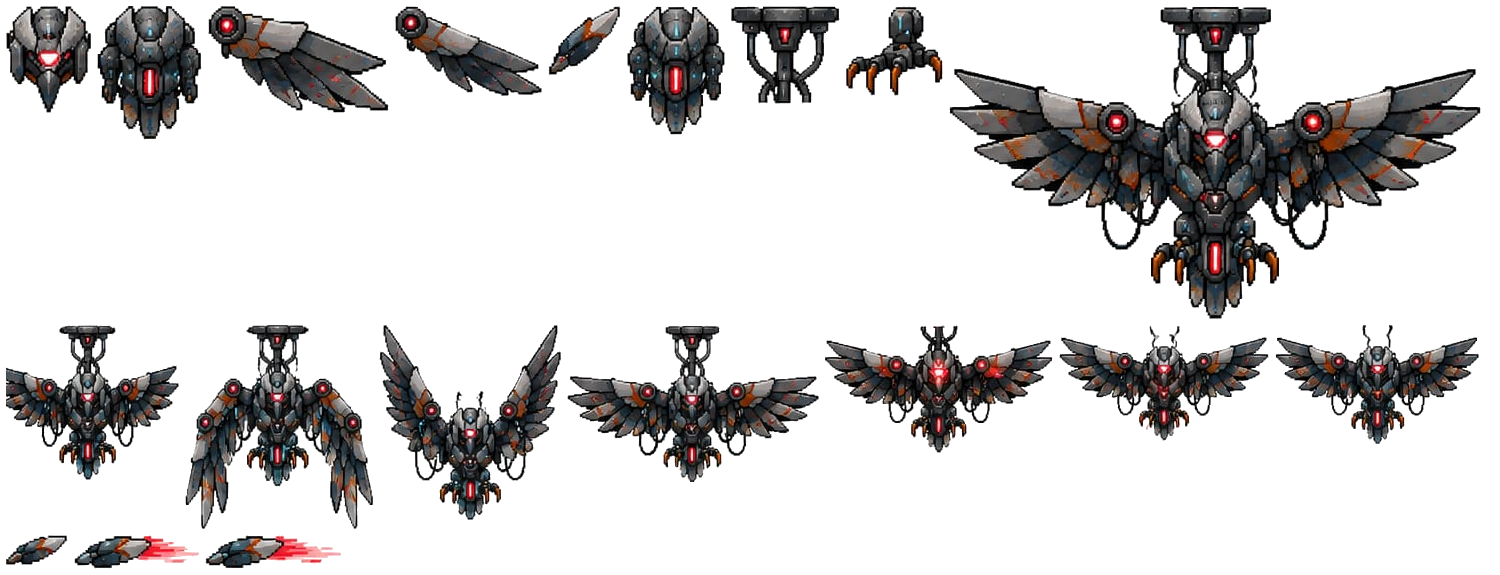
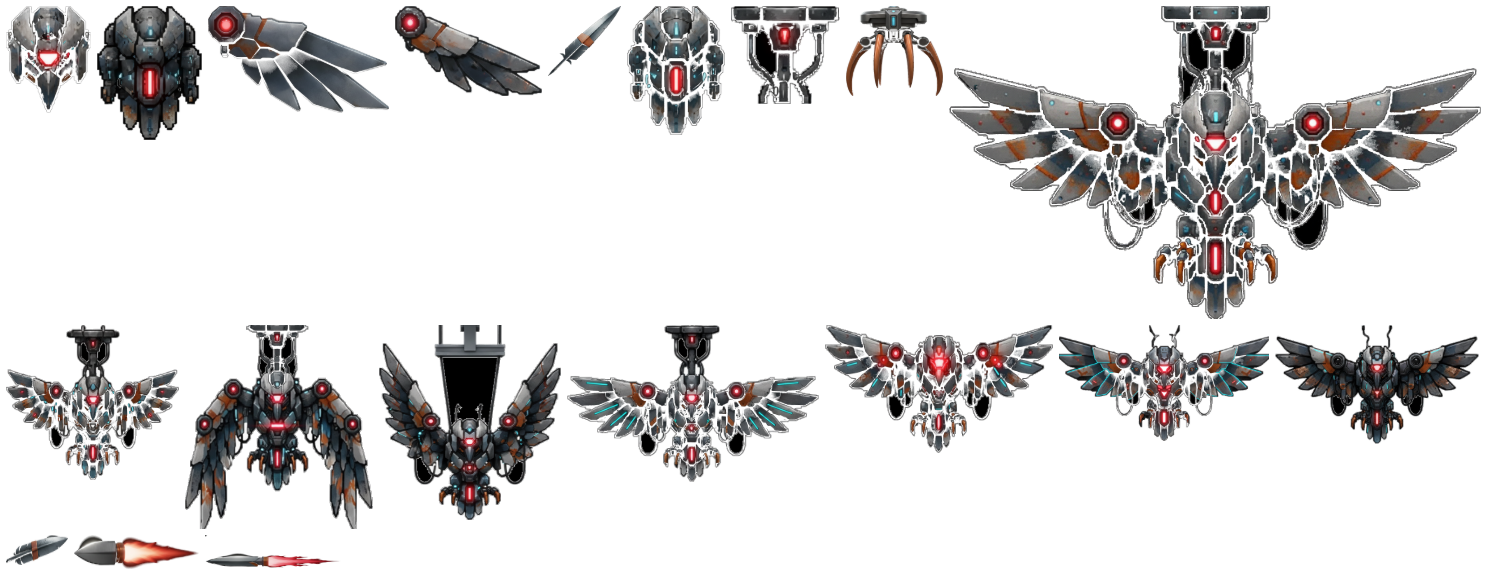
four guardians restyled from drawings into 3D renders, rigs untouched
TALONHOST, FURNACE CHOIR, GLACIERE and MOTHER-V now read as lit dimensional
objects rather than painted sprites — physically-based metal, real subsurface
in the dragon's molten seams and the unicorn's ice, genuinely emissive cores,
ambient occlusion in every joint. Sixty parts through tools/bossparts.cjs,
which restyles each limb ALONE and pastes it back into the same rect, so not
one pivot moved. Verified in the running build: each boss was woken in its own
room and photographed assembled.

Three things the pipeline learned doing it.

DERIVED RECTS ARE NOT PARTS. Some entries in these tables read the same pixels
a second time — glaciere's `mane` is a window into `hero`, eagle's `pRest` is
the bottom of `pIdle`. Restyling one independently pastes a second mane over
the mane. They are still verified as rig numbers, but excluded from extract and
ignored on rebuild; they inherit their parent's restyle for free.

ON A RIG, ALIGNMENT BEATS FIDELITY. Letterboxing a restyled part inside its
rect preserves the model's aspect and is right for a standalone picture — but a
leg that lands 6% short leaves a 6% gap at the hip. These parts are meant to be
the SAME shape, so aspect difference is drift, not intent: it is stretched out
and the joint lands exactly where the rig expects it. Past 18% that stops being
a correction, so the part is letterboxed and the drift reported.

A FREE-FLOATING PROP HAS NO JOINT TO MISALIGN. A thrown feather, an ice shard,
[…]

Changed region(s): [[0.0, 0.0, 1.0, 0.5617], [0.0, 0.5617, 0.9813, 0.9165], [0.0, 0.9165, 0.2453, 1.0]]

diff --git a/index.html b/index.html
@@ -225,7 +225,7 @@
 })();
 </script>
 
-<script>window.BUILD_ID="msrf2j8m";window.GAME_LOCK="robo";window.MUS_FILES={"ambient_observing_the_star":"assets/music/ambient_observing_the_star.ogg","epic_combat":"assets/music/epic_combat.ogg","mus_archives":"assets/music/mus_archives.m4a","mus_boss":"assets/music/mus_boss.m4a","mus_cache":"assets/music/mus_cache.m4a","mus_conduits":"assets/music/mus_conduits.m4a","mus_ending":"assets/music/mus_ending.m4a","mus_foundry":"assets/music/mus_foundry.m4a","mus_furnace":"assets/music/mus_furnace.m4a","mus_glaciere":"assets/music/mus_glaciere.m4a","mus_intro":"assets/music/mus_intro.m4a","mus_meadows":"assets/music/mus_meadows.m4a","mus_mother":"assets/music/mus_mother.m4a","mus_nest":"assets/music/mus_nest.m4a","mus_nullfang":"assets/music/mus_nullfang.m4a","mus_prism":"assets/music/mus_prism.m4a","mus_talonhost":"assets/music/mus_talonhost.m4a","mus_title":"assets/music/mus_title.m4a"};window.VID_FILES={"end_atlas":"assets/video/end_atlas.mp4","end_brood":"assets/video/end_brood.mp4","end_close":"assets/video/end_close.mp4","end_folk":"assets/video/end_folk.mp4","end_glitch":"assets/video/end_glitch.mp4","end_mother":"assets/video/end_mother.mp4","end_open":"assets/video/end_open.mp4","end_prism":"assets/video/end_prism.mp4","end_zero":"assets/video/end_zero.mp4","intro1":"assets/video/intro1.mp4","intro2":"assets/video/intro2.mp4","intro3":"assets/video/intro3.mp4","intro4":"assets/video/intro4.mp4","intro5":"assets/video/intro5.mp4","intro6":"assets/video/intro6.mp4","intro7":"assets/video/intro7.mp4","intro8":"assets/video/intro8.mp4","purify_atlas":"assets/video/purify_atlas.mp4","purify_brood":"assets/video/purify_brood.mp4","purify_glitch":"assets/video/purify_glitch.mp4","purify_prism":"assets/video/purify_prism.mp4","purify_zero":"assets/video/purify_zero.mp4"};window.VID_ALT={"end_atlas":"assets/video/end_atlas.webm","end_brood":"assets/video/end_brood.webm","end_close":"assets/video/end_close.webm","end_folk":"assets/video/end_folk.webm","end_glitch":"assets/video/end_glitch.webm","end_mother":"assets/video/end_mother.webm","end_open":"assets/video/end_open.webm","end_prism":"assets/video/end_prism.webm","end_zero":"assets/video/end_zero.webm","intro1":"assets/video/intro1.webm","intro2":"assets/video/intro2.webm","intro3":"assets/video/intro3.webm","intro4":"assets/video/intro4.webm","intro5":"assets/video/intro5.webm","intro6":"assets/video/intro6.webm","intro7":"assets/video/intro7.webm","intro8":"assets/video/intro8.webm","purify_atlas":"assets/video/purify_atlas.webm","purify_brood":"assets/video/purify_brood.webm","purify_glitch":"assets/video/purify_glitch.webm","purify_prism":"assets/video/purify_prism.webm","purify_zero":"assets/video/purify_zero.webm"};window.VOX_FILES={"lumen0":"assets/vox/lumen0.ogg","lumen1":"assets/vox/lumen1.ogg","lumen2":"assets/vox/lumen2.ogg","mono0":"assets/vox/mono0.ogg","mono1":"assets/vox/mono1.ogg","mono2":"assets/vox/mono2.ogg","patch0":"assets/vox/patch0.ogg","patch1":"assets/vox/patch1.ogg","patch2":"assets/vox/patch2.ogg","ratchet0":"assets/vox/ratchet0.ogg","ratchet1":"assets/vox/ratchet1.ogg","sage0":"assets/vox/sage0.ogg","sage1":"assets/vox/sage1.ogg","sage2":"assets/vox/sage2.ogg","servo0":"assets/vox/servo0.ogg","servo1":"assets/vox/servo1.ogg","servo2":"assets/vox/servo2.ogg","servo3":"assets/vox/servo3.ogg"}</script>
+<script>window.BUILD_ID="msrh5au7";window.GAME_LOCK="robo";window.MUS_FILES={"ambient_observing_the_star":"assets/music/ambient_observing_the_star.ogg","epic_combat":"assets/music/epic_combat.ogg","mus_archives":"assets/music/mus_archives.m4a","mus_boss":"assets/music/mus_boss.m4a","mus_cache":"assets/music/mus_cache.m4a","mus_conduits":"assets/music/mus_conduits.m4a","mus_ending":"assets/music/mus_ending.m4a","mus_foundry":"assets/music/mus_foundry.m4a","mus_furnace":"assets/music/mus_furnace.m4a","mus_glaciere":"assets/music/mus_glaciere.m4a","mus_intro":"assets/music/mus_intro.m4a","mus_meadows":"assets/music/mus_meadows.m4a","mus_mother":"assets/music/mus_mother.m4a","mus_nest":"assets/music/mus_nest.m4a","mus_nullfang":"assets/music/mus_nullfang.m4a","mus_prism":"assets/music/mus_prism.m4a","mus_talonhost":"assets/music/mus_talonhost.m4a","mus_title":"assets/music/mus_title.m4a"};window.VID_FILES={"end_atlas":"assets/video/end_atlas.mp4","end_brood":"assets/video/end_brood.mp4","end_close":"assets/video/end_close.mp4","end_folk":"assets/video/end_folk.mp4","end_glitch":"assets/video/end_glitch.mp4","end_mother":"assets/video/end_mother.mp4","end_open":"assets/video/end_open.mp4","end_prism":"assets/video/end_prism.mp4","end_zero":"assets/video/end_zero.mp4","intro1":"assets/video/intro1.mp4","intro2":"assets/video/intro2.mp4","intro3":"assets/video/intro3.mp4","intro4":"assets/video/intro4.mp4","intro5":"assets/video/intro5.mp4","intro6":"assets/video/intro6.mp4","intro7":"assets/video/intro7.mp4","intro8":"assets/video/intro8.mp4","purify_atlas":"assets/video/purify_atlas.mp4","purify_brood":"assets/video/purify_brood.mp4","purify_glitch":"assets/video/purify_glitch.mp4","purify_prism":"assets/video/purify_prism.mp4","purify_zero":"assets/video/purify_zero.mp4"};window.VID_ALT={"end_atlas":"assets/video/end_atlas.webm","end_brood":"assets/video/end_brood.webm","end_close":"assets/video/end_close.webm","end_folk":"assets/video/end_folk.webm","end_glitch":"assets/video/end_glitch.webm","end_mother":"assets/video/end_mother.webm","end_open":"assets/video/end_open.webm","end_prism":"assets/video/end_prism.webm","end_zero":"assets/video/end_zero.webm","intro1":"assets/video/intro1.webm","intro2":"assets/video/intro2.webm","intro3":"assets/video/intro3.webm","intro4":"assets/video/intro4.webm","intro5":"assets/video/intro5.webm","intro6":"assets/video/intro6.webm","intro7":"assets/video/intro7.webm","intro8":"assets/video/intro8.webm","purify_atlas":"assets/video/purify_atlas.webm","purify_brood":"assets/video/purify_brood.webm","purify_glitch":"assets/video/purify_glitch.webm","purify_prism":"assets/video/purify_prism.webm","purify_zero":"assets/video/purify_zero.webm"};window.VOX_FILES={"lumen0":"assets/vox/lumen0.ogg","lumen1":"assets/vox/lumen1.ogg","lumen2":"assets/vox/lumen2.ogg","mono0":"assets/vox/mono0.ogg","mono1":"assets/vox/mono1.ogg","mono2":"assets/vox/mono2.ogg","patch0":"assets/vox/patch0.ogg","patch1":"assets/vox/patch1.ogg","patch2":"assets/vox/patch2.ogg","ratchet0":"assets/vox/ratchet0.ogg","ratchet1":"assets/vox/ratchet1.ogg","sage0":"assets/vox/sage0.ogg","sage1":"assets/vox/sage1.ogg","sage2":"assets/vox/sage2.ogg","servo0":"assets/vox/servo0.ogg","servo1":"assets/vox/servo1.ogg","servo2":"assets/vox/servo2.ogg","servo3":"assets/vox/servo3.ogg"}</script>
 <script>
 // THE FIRST BOSS — virus-infected robot beast, and its whelps.
 //

diff --git a/odyssey.html b/odyssey.html
@@ -225,7 +225,7 @@
 })();
 </script>
 
-<script>window.BUILD_ID="msrf2j8m";window.GAME_LOCK="hero";window.MUS_FILES={"ambient_observing_the_star":"assets/music/ambient_observing_the_star.ogg","epic_combat":"assets/music/epic_combat.ogg","mus_archives":"assets/music/mus_archives.m4a","mus_boss":"assets/music/mus_boss.m4a","mus_cache":"assets/music/mus_cache.m4a","mus_conduits":"assets/music/mus_conduits.m4a","mus_ending":"assets/music/mus_ending.m4a","mus_foundry":"assets/music/mus_foundry.m4a","mus_furnace":"assets/music/mus_furnace.m4a","mus_glaciere":"assets/music/mus_glaciere.m4a","mus_intro":"assets/music/mus_intro.m4a","mus_meadows":"assets/music/mus_meadows.m4a","mus_mother":"assets/music/mus_mother.m4a","mus_nest":"assets/music/mus_nest.m4a","mus_nullfang":"assets/music/mus_nullfang.m4a","mus_prism":"assets/music/mus_prism.m4a","mus_talonhost":"assets/music/mus_talonhost.m4a","mus_title":"assets/music/mus_title.m4a"};window.VID_FILES={"end_atlas":"assets/video/end_atlas.mp4","end_brood":"assets/video/end_brood.mp4","end_close":"assets/video/end_close.mp4","end_folk":"assets/video/end_folk.mp4","end_glitch":"assets/video/end_glitch.mp4","end_mother":"assets/video/end_mother.mp4","end_open":"assets/video/end_open.mp4","end_prism":"assets/video/end_prism.mp4","end_zero":"assets/video/end_zero.mp4","intro1":"assets/video/intro1.mp4","intro2":"assets/video/intro2.mp4","intro3":"assets/video/intro3.mp4","intro4":"assets/video/intro4.mp4","intro5":"assets/video/intro5.mp4","intro6":"assets/video/intro6.mp4","intro7":"assets/video/intro7.mp4","intro8":"assets/video/intro8.mp4","purify_atlas":"assets/video/purify_atlas.mp4","purify_brood":"assets/video/purify_brood.mp4","purify_glitch":"assets/video/purify_glitch.mp4","purify_prism":"assets/video/purify_prism.mp4","purify_zero":"assets/video/purify_zero.mp4"};window.VID_ALT={"end_atlas":"assets/video/end_atlas.webm","end_brood":"assets/video/end_brood.webm","end_close":"assets/video/end_close.webm","end_folk":"assets/video/end_folk.webm","end_glitch":"assets/video/end_glitch.webm","end_mother":"assets/video/end_mother.webm","end_open":"assets/video/end_open.webm","end_prism":"assets/video/end_prism.webm","end_zero":"assets/video/end_zero.webm","intro1":"assets/video/intro1.webm","intro2":"assets/video/intro2.webm","intro3":"assets/video/intro3.webm","intro4":"assets/video/intro4.webm","intro5":"assets/video/intro5.webm","intro6":"assets/video/intro6.webm","intro7":"assets/video/intro7.webm","intro8":"assets/video/intro8.webm","purify_atlas":"assets/video/purify_atlas.webm","purify_brood":"assets/video/purify_brood.webm","purify_glitch":"assets/video/purify_glitch.webm","purify_prism":"assets/video/purify_prism.webm","purify_zero":"assets/video/purify_zero.webm"};window.VOX_FILES={"lumen0":"assets/vox/lumen0.ogg","lumen1":"assets/vox/lumen1.ogg","lumen2":"assets/vox/lumen2.ogg","mono0":"assets/vox/mono0.ogg","mono1":"assets/vox/mono1.ogg","mono2":"assets/vox/mono2.ogg","patch0":"assets/vox/patch0.ogg","patch1":"assets/vox/patch1.ogg","patch2":"assets/vox/patch2.ogg","ratchet0":"assets/vox/ratchet0.ogg","ratchet1":"assets/vox/ratchet1.ogg","sage0":"assets/vox/sage0.ogg","sage1":"assets/vox/sage1.ogg","sage2":"assets/vox/sage2.ogg","servo0":"assets/vox/servo0.ogg","servo1":"assets/vox/servo1.ogg","servo2":"assets/vox/servo2.ogg","servo3":"assets/vox/servo3.ogg"}</script>
+<script>window.BUILD_ID="msrh5au7";window.GAME_LOCK="hero";window.MUS_FILES={"ambient_observing_the_star":"assets/music/ambient_observing_the_star.ogg","epic_combat":"assets/music/epic_combat.ogg","mus_archives":"assets/music/mus_archives.m4a","mus_boss":"assets/music/mus_boss.m4a","mus_cache":"assets/music/mus_cache.m4a","mus_conduits":"assets/music/mus_conduits.m4a","mus_ending":"assets/music/mus_ending.m4a","mus_foundry":"assets/music/mus_foundry.m4a","mus_furnace":"assets/music/mus_furnace.m4a","mus_glaciere":"assets/music/mus_glaciere.m4a","mus_intro":"assets/music/mus_intro.m4a","mus_meadows":"assets/music/mus_meadows.m4a","mus_mother":"assets/music/mus_mother.m4a","mus_nest":"assets/music/mus_nest.m4a","mus_nullfang":"assets/music/mus_nullfang.m4a","mus_prism":"assets/music/mus_prism.m4a","mus_talonhost":"assets/music/mus_talonhost.m4a","mus_title":"assets/music/mus_title.m4a"};window.VID_FILES={"end_atlas":"assets/video/end_atlas.mp4","end_brood":"assets/video/end_brood.mp4","end_close":"assets/video/end_close.mp4","end_folk":"assets/video/end_folk.mp4","end_glitch":"assets/video/end_glitch.mp4","end_mother":"assets/video/end_mother.mp4","end_open":"assets/video/end_open.mp4","end_prism":"assets/video/end_prism.mp4","end_zero":"assets/video/end_zero.mp4","intro1":"assets/video/intro1.mp4","intro2":"assets/video/intro2.mp4","intro3":"assets/video/intro3.mp4","intro4":"assets/video/intro4.mp4","intro5":"assets/video/intro5.mp4","intro6":"assets/video/intro6.mp4","intro7":"assets/video/intro7.mp4","intro8":"assets/video/intro8.mp4","purify_atlas":"assets/video/purify_atlas.mp4","purify_brood":"assets/video/purify_brood.mp4","purify_glitch":"assets/video/purify_glitch.mp4","purify_prism":"assets/video/purify_prism.mp4","purify_zero":"assets/video/purify_zero.mp4"};window.VID_ALT={"end_atlas":"assets/video/end_atlas.webm","end_brood":"assets/video/end_brood.webm","end_close":"assets/video/end_close.webm","end_folk":"assets/video/end_folk.webm","end_glitch":"assets/video/end_glitch.webm","end_mother":"assets/video/end_mother.webm","end_open":"assets/video/end_open.webm","end_prism":"assets/video/end_prism.webm","end_zero":"assets/video/end_zero.webm","intro1":"assets/video/intro1.webm","intro2":"assets/video/intro2.webm","intro3":"assets/video/intro3.webm","intro4":"assets/video/intro4.webm","intro5":"assets/video/intro5.webm","intro6":"assets/video/intro6.webm","intro7":"assets/video/intro7.webm","intro8":"assets/video/intro8.webm","purify_atlas":"assets/video/purify_atlas.webm","purify_brood":"assets/video/purify_brood.webm","purify_glitch":"assets/video/purify_glitch.webm","purify_prism":"assets/video/purify_prism.webm","purify_zero":"assets/video/purify_zero.webm"};window.VOX_FILES={"lumen0":"assets/vox/lumen0.ogg","lumen1":"assets/vox/lumen1.ogg","lumen2":"assets/vox/lumen2.ogg","mono0":"assets/vox/mono0.ogg","mono1":"assets/vox/mono1.ogg","mono2":"assets/vox/mono2.ogg","patch0":"assets/vox/patch0.ogg","patch1":"assets/vox/patch1.ogg","patch2":"assets/vox/patch2.ogg","ratchet0":"assets/vox/ratchet0.ogg","ratchet1":"assets/vox/ratchet1.ogg","sage0":"assets/vox/sage0.ogg","sage1":"assets/vox/sage1.ogg","sage2":"assets/vox/sage2.ogg","servo0":"assets/vox/servo0.ogg","servo1":"assets/vox/servo1.ogg","servo2":"assets/vox/servo2.ogg","servo3":"assets/vox/servo3.ogg"}</script>
 <script>
 // THE FIRST BOSS — virus-infected robot beast, and its whelps.
 //
